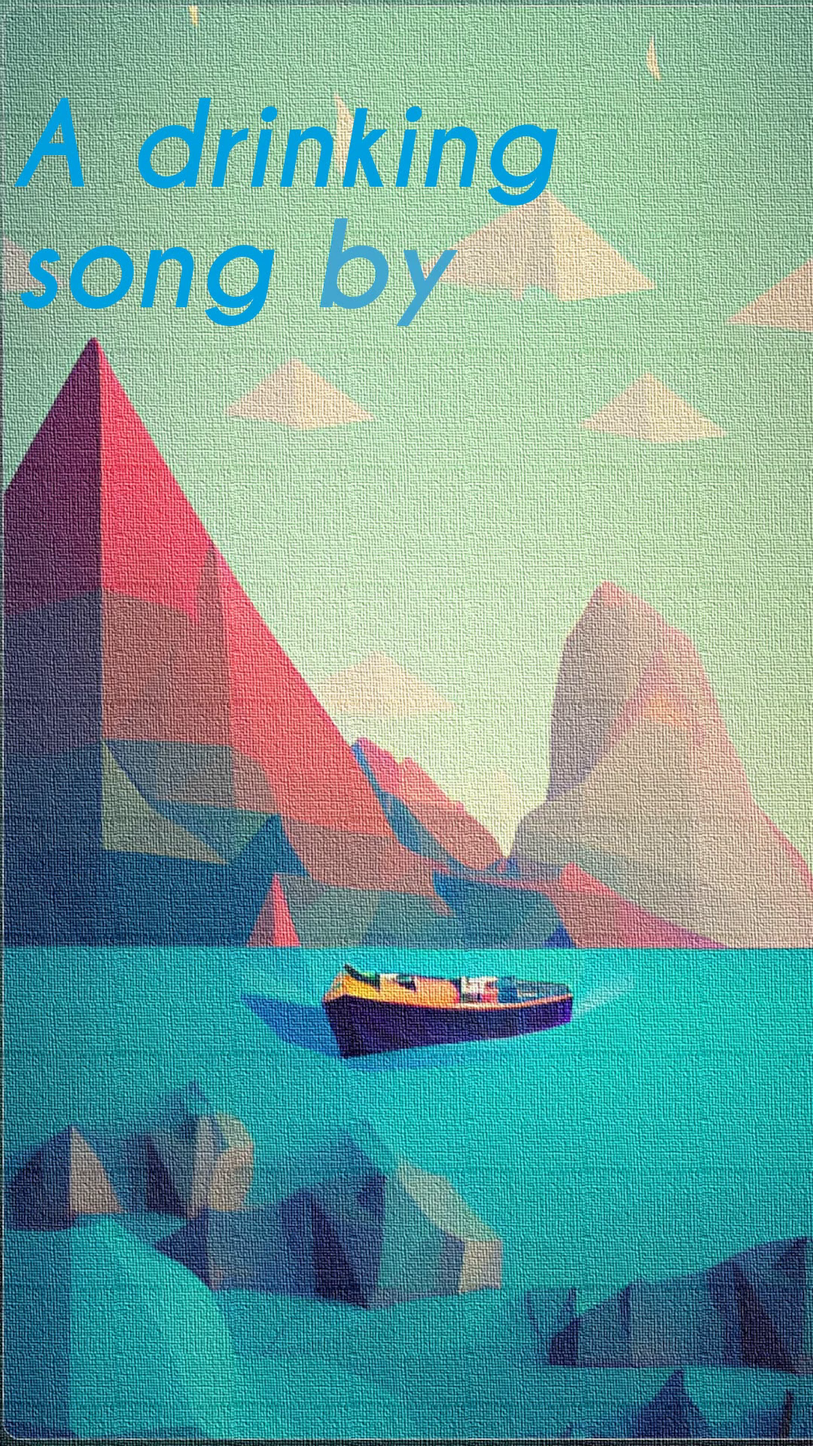
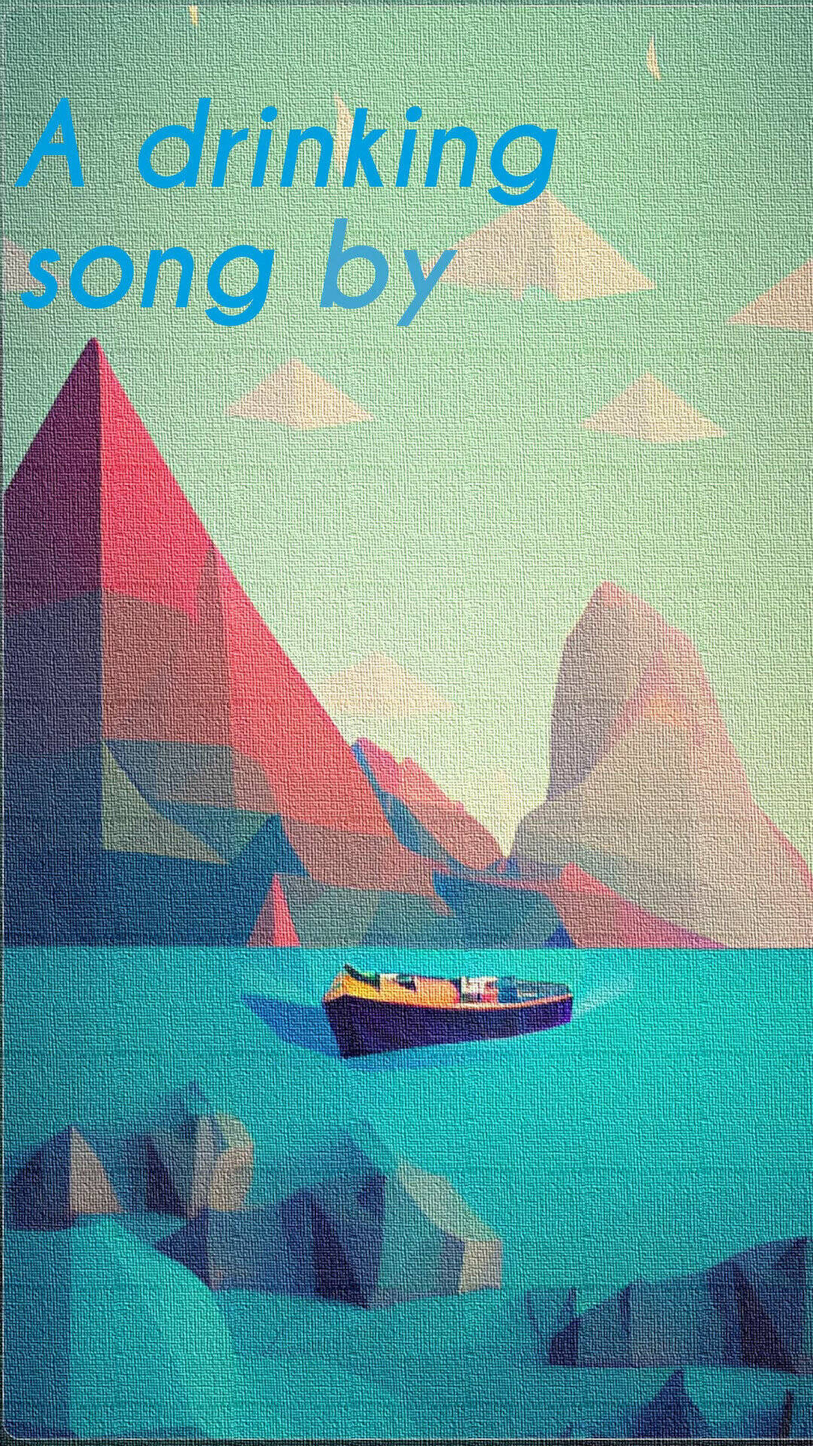
fix vidoe poster and compress size

diff --git a/index.html b/index.html
@@ -61,10 +61,10 @@
                             loop
                             muted="true"
                             preload="auto"
-                            src="/media/poem-a-drinking-song.mp4"
+                            src="https://lude.page/media/poem-a-drinking-song.mp4"
                             width="540px"
                             height="960px"
-                            poster="/img/poster-poem-a-drinking-song.jpg"
+                            poster="https://lude.page/img/poster-poem-a-drinking-song.jpg"
                       ></video>
                 </div>
               </div>
